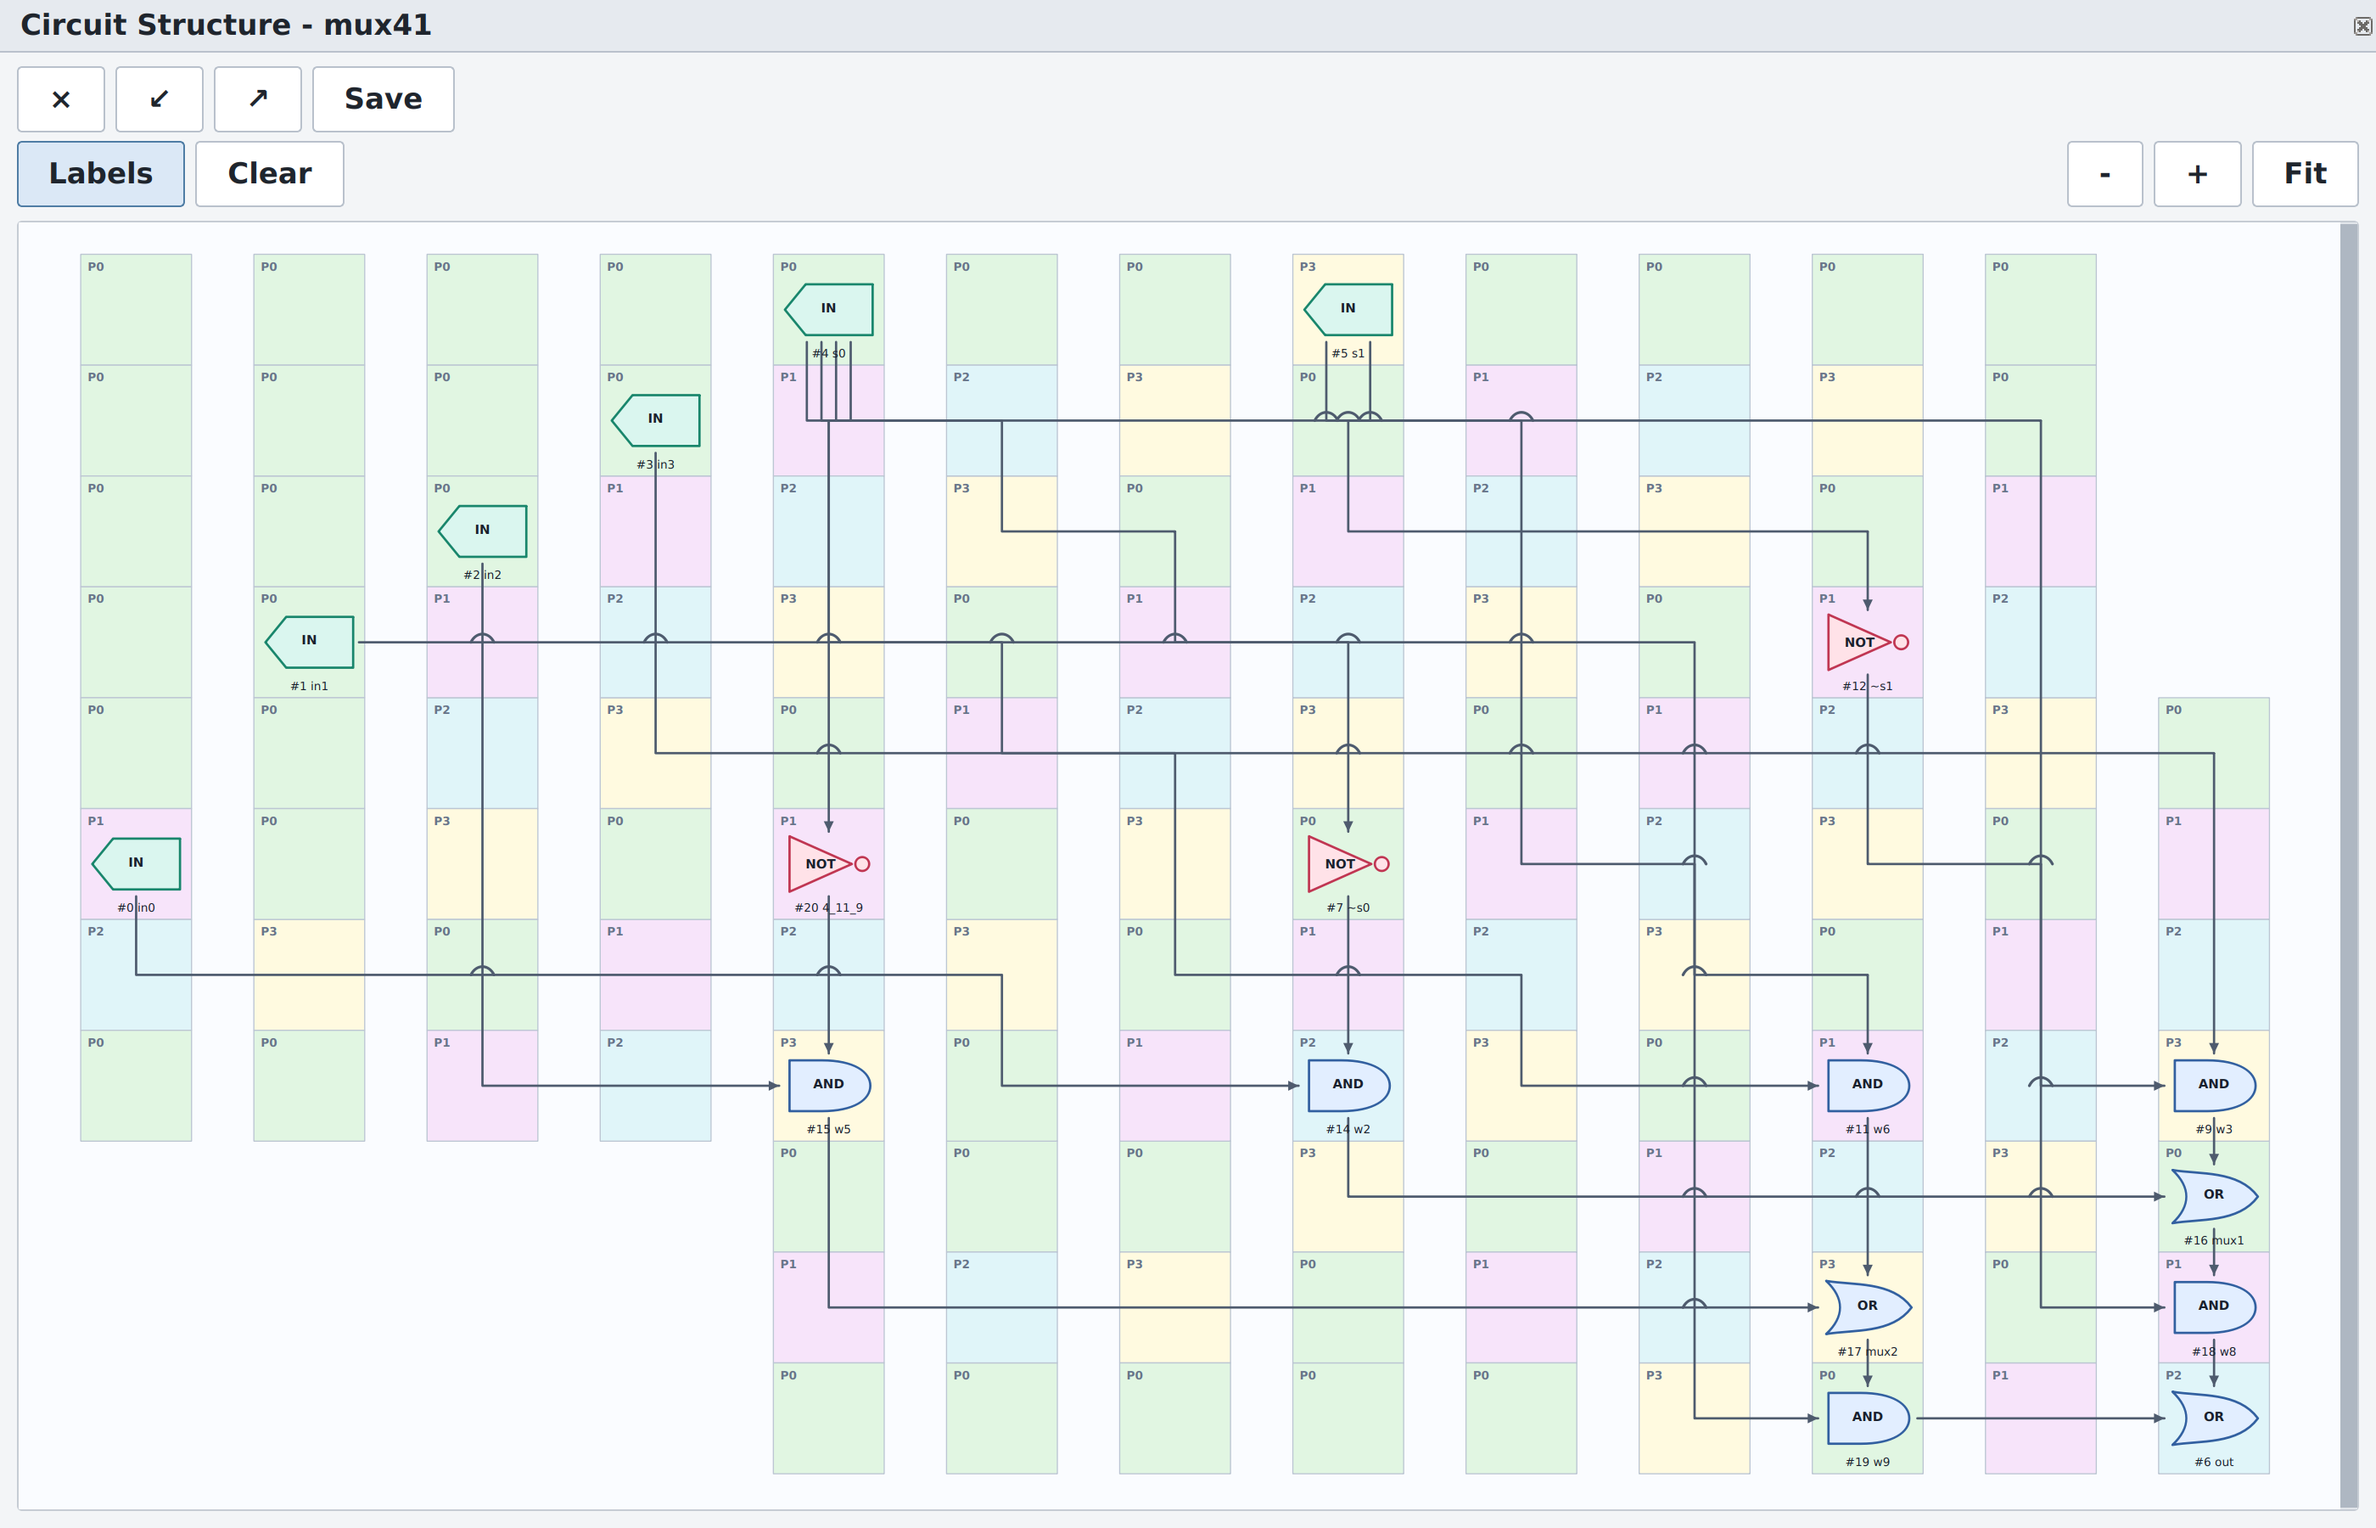
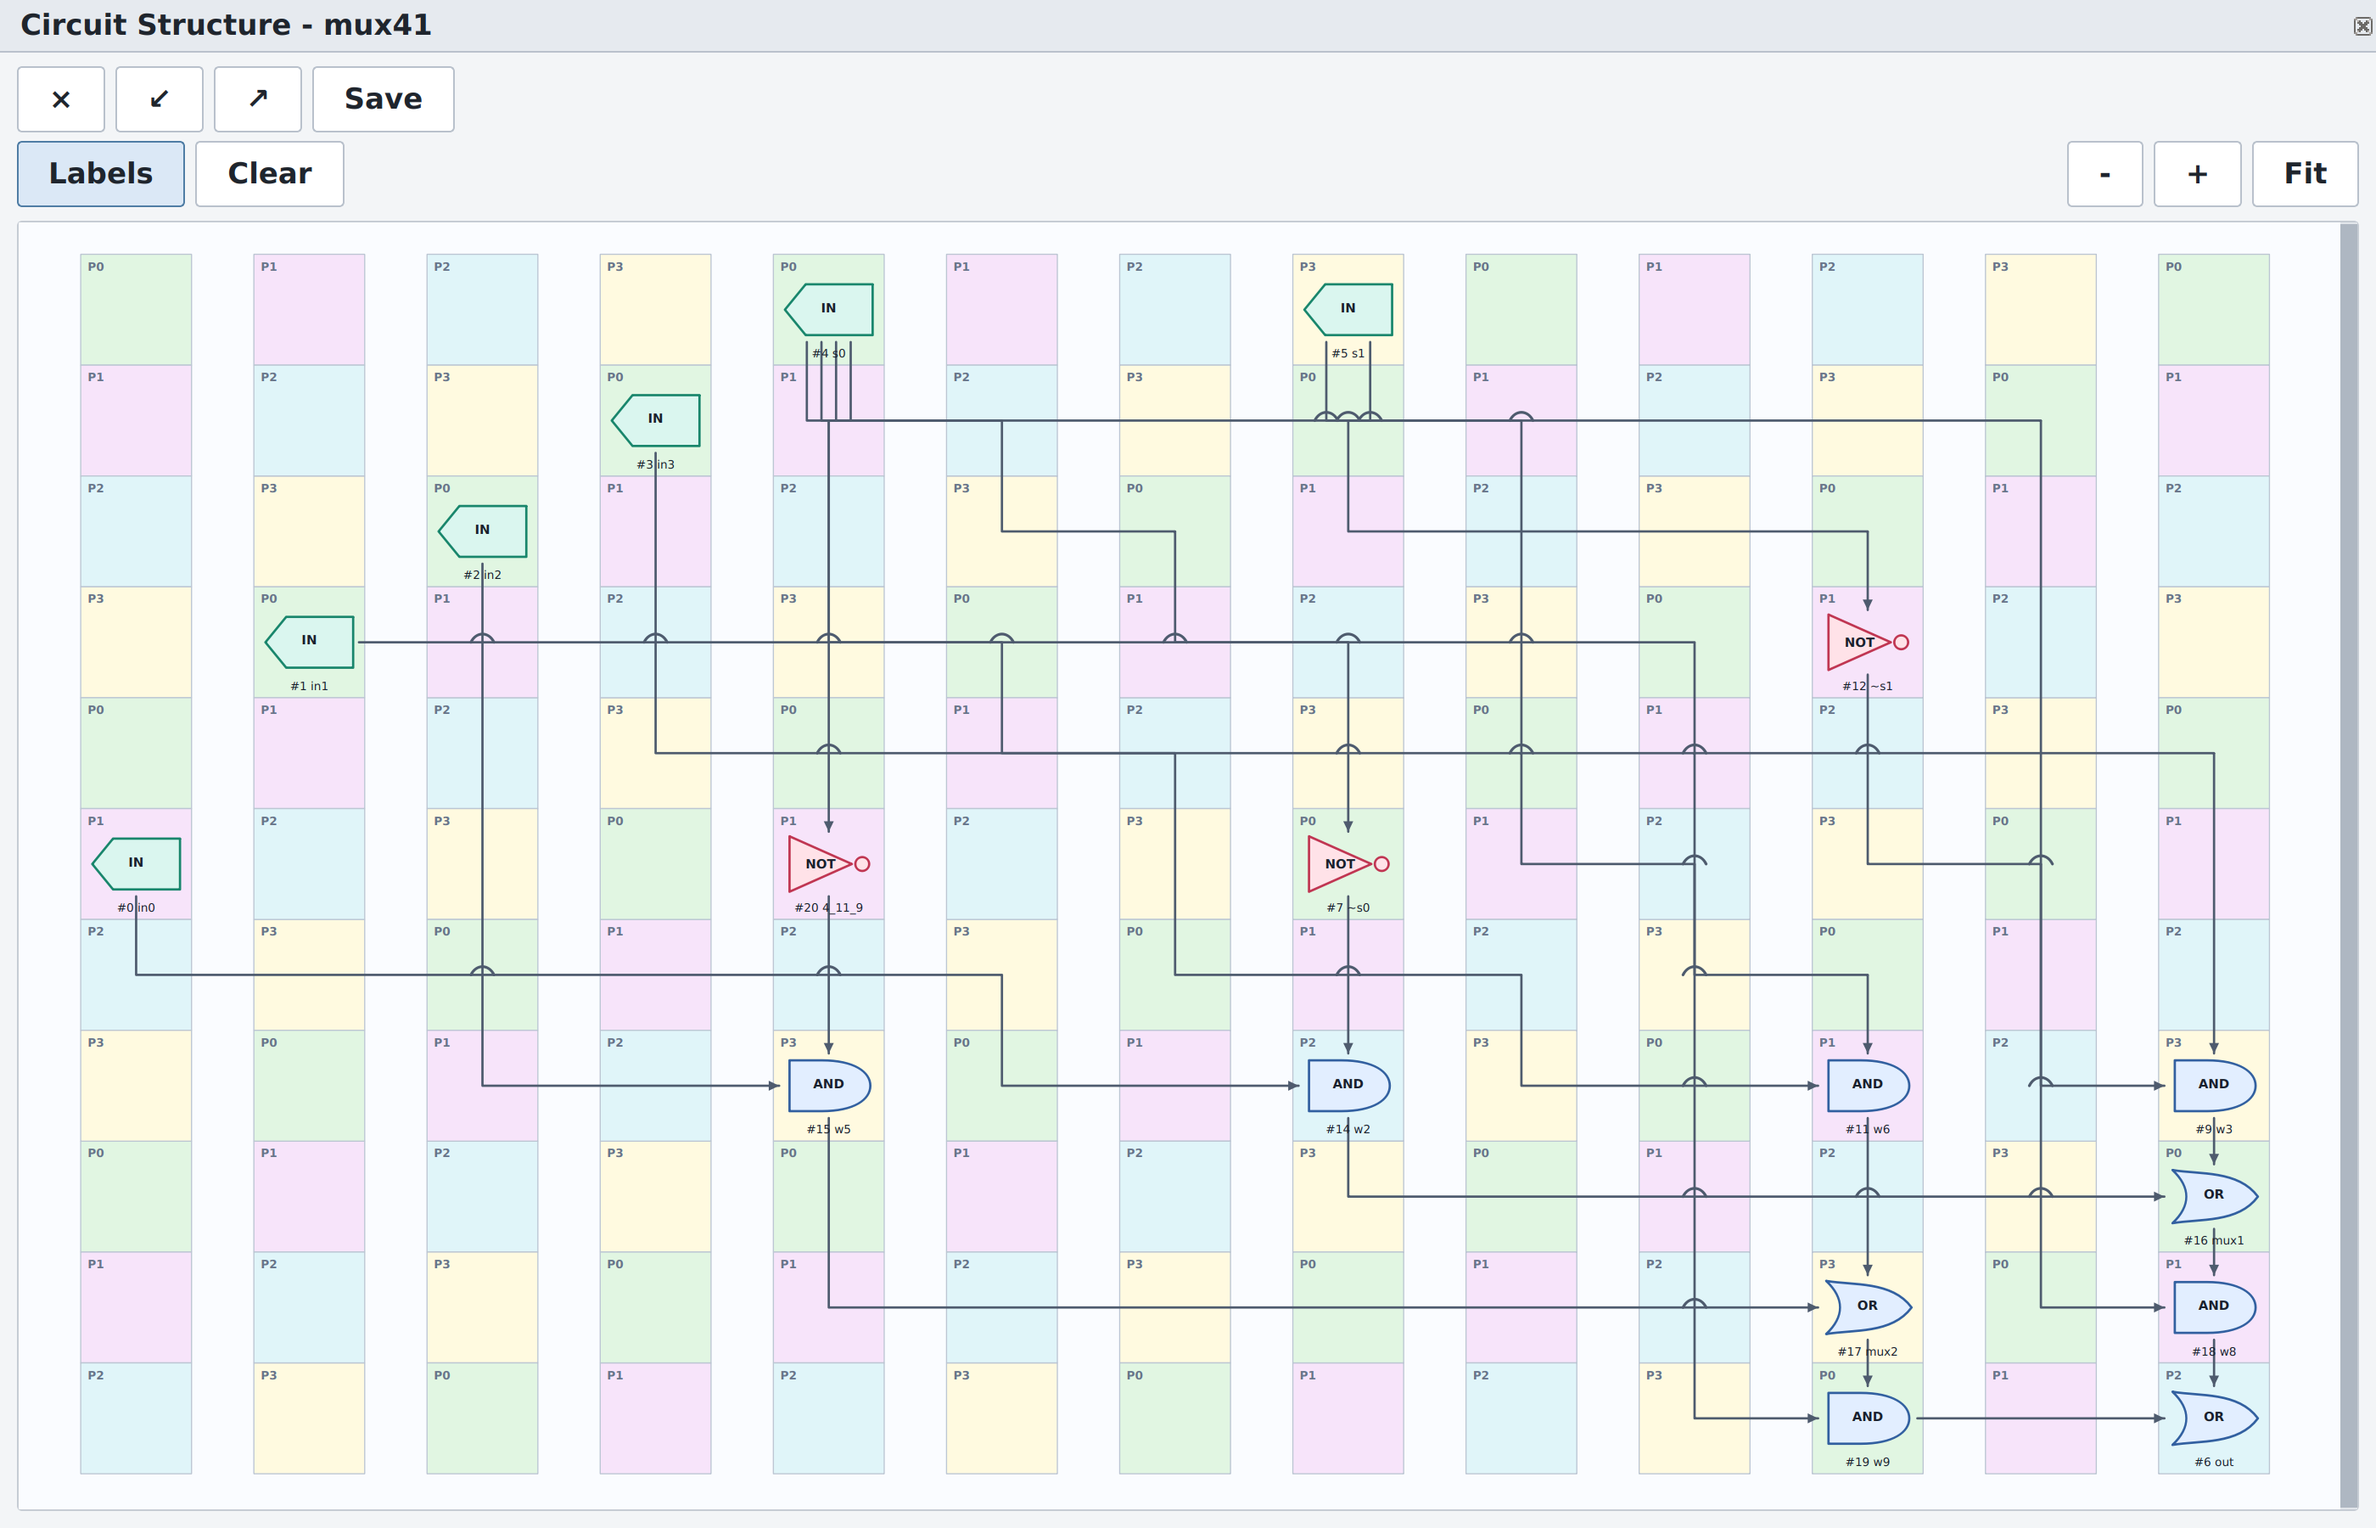
Resolve Graphviz through imported targets on every platform

diff --git a/docs/ifcn-format.md b/docs/ifcn-format.md
@@ -81,3 +81,20 @@ completion at unused positions also preserve QCA bytes and are recorded
 separately from the original 90-file conversion. Hashes and provenance are in the
 [case table](examples.csv); storage equivalence does not replace
 [physical functional validation](examples.md).
+
+其中，展示用的 [2DDWave MUX41](../examples/regular_2ddwave/TOY/mux41.ifcn)
+随后单独补齐了 **13 × 11** 范围内的规则时钟背景：保留全部 **97 个已占用
+位置**和既有非零相位，补全 36 个原为 0 的空白位置及两个缺失的空块，范围外
+仍补 0。节点、路径与其他元数据未变；当前映射器转换前后的 **737 个 QCA
+元胞逐字节一致**。此项空白模板审计独立记录在案例结果表中，不改写原 90 个
+文件的转换证据或转换前哈希，也不代表新增物理验证。
+
+The displayed [2DDWave MUX41](../examples/regular_2ddwave/TOY/mux41.ifcn)
+subsequently received a separate completion of its **13 × 11** regular-clock
+background. All **97 occupied positions** and all existing nonzero phases were
+preserved; 36 unused zero-valued positions and two missing empty blocks were
+completed, with zero padding outside the bounds. Nodes, routes, and other
+metadata are unchanged. The current mapper produced **737 QCA cells with
+byte-identical data before and after**. This separate template audit is recorded
+in the case table, retains the original 90-file conversion evidence and
+pre-encoding hashes, and does not add physical validation.
